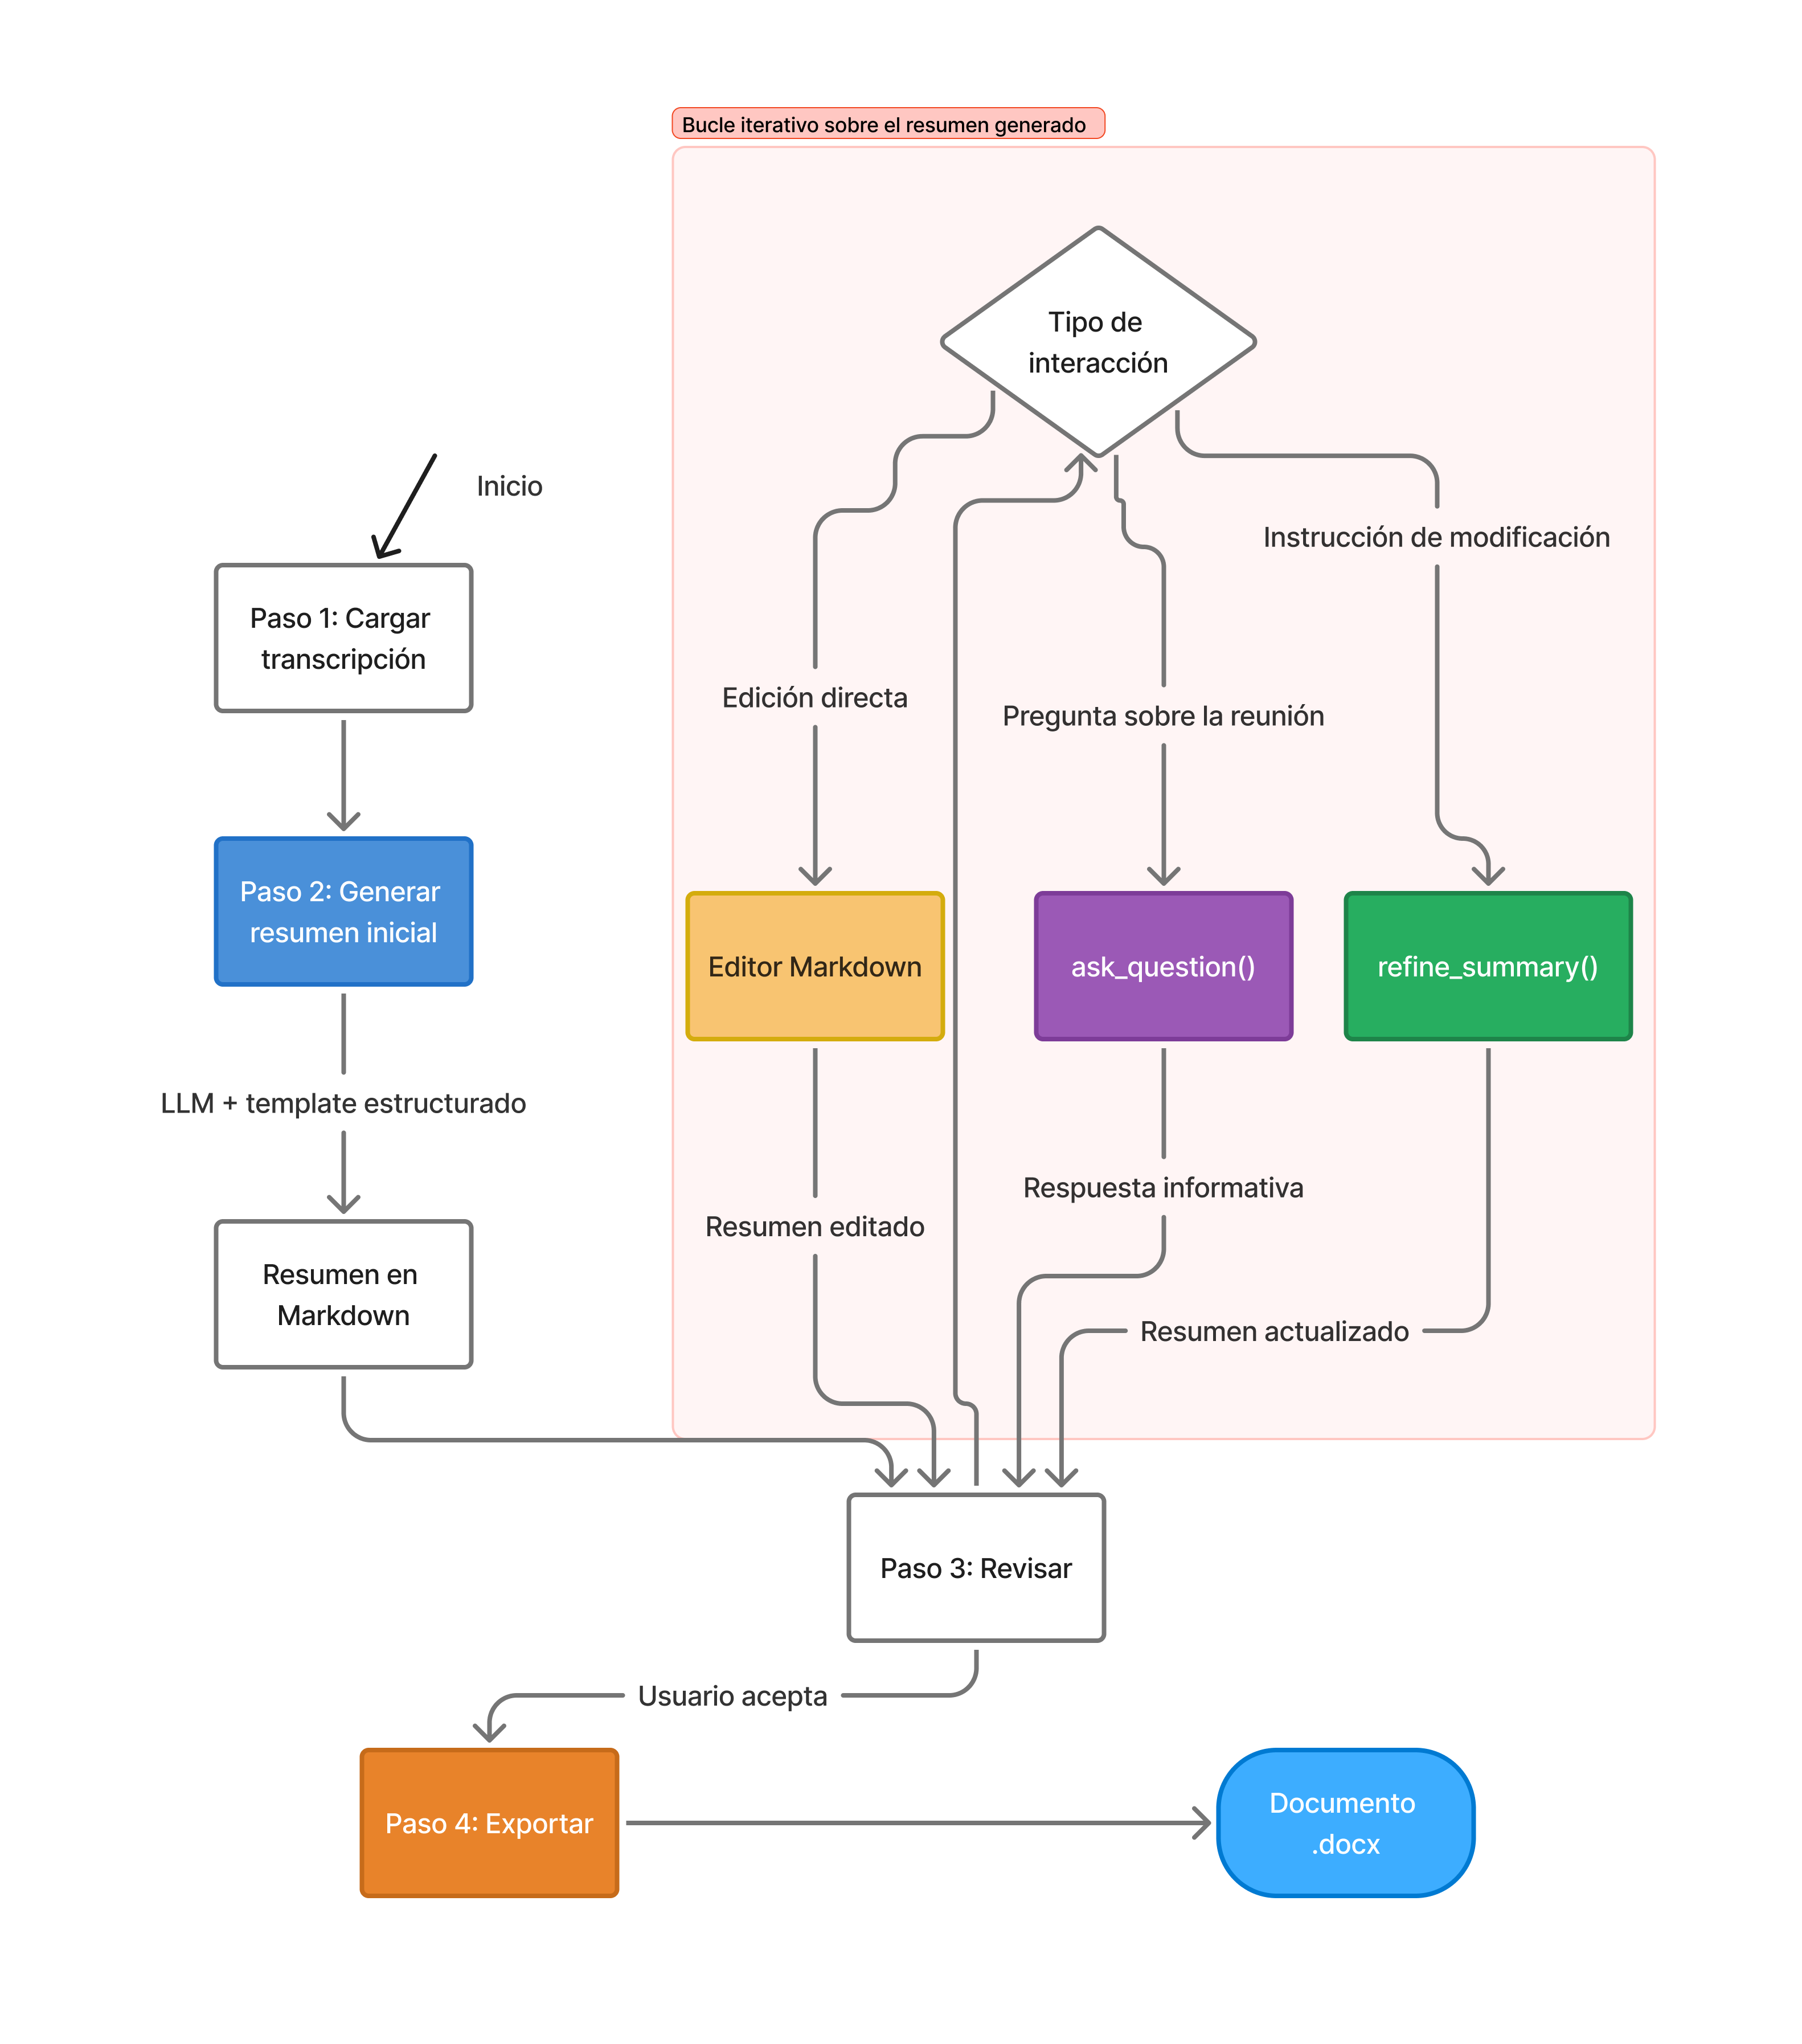
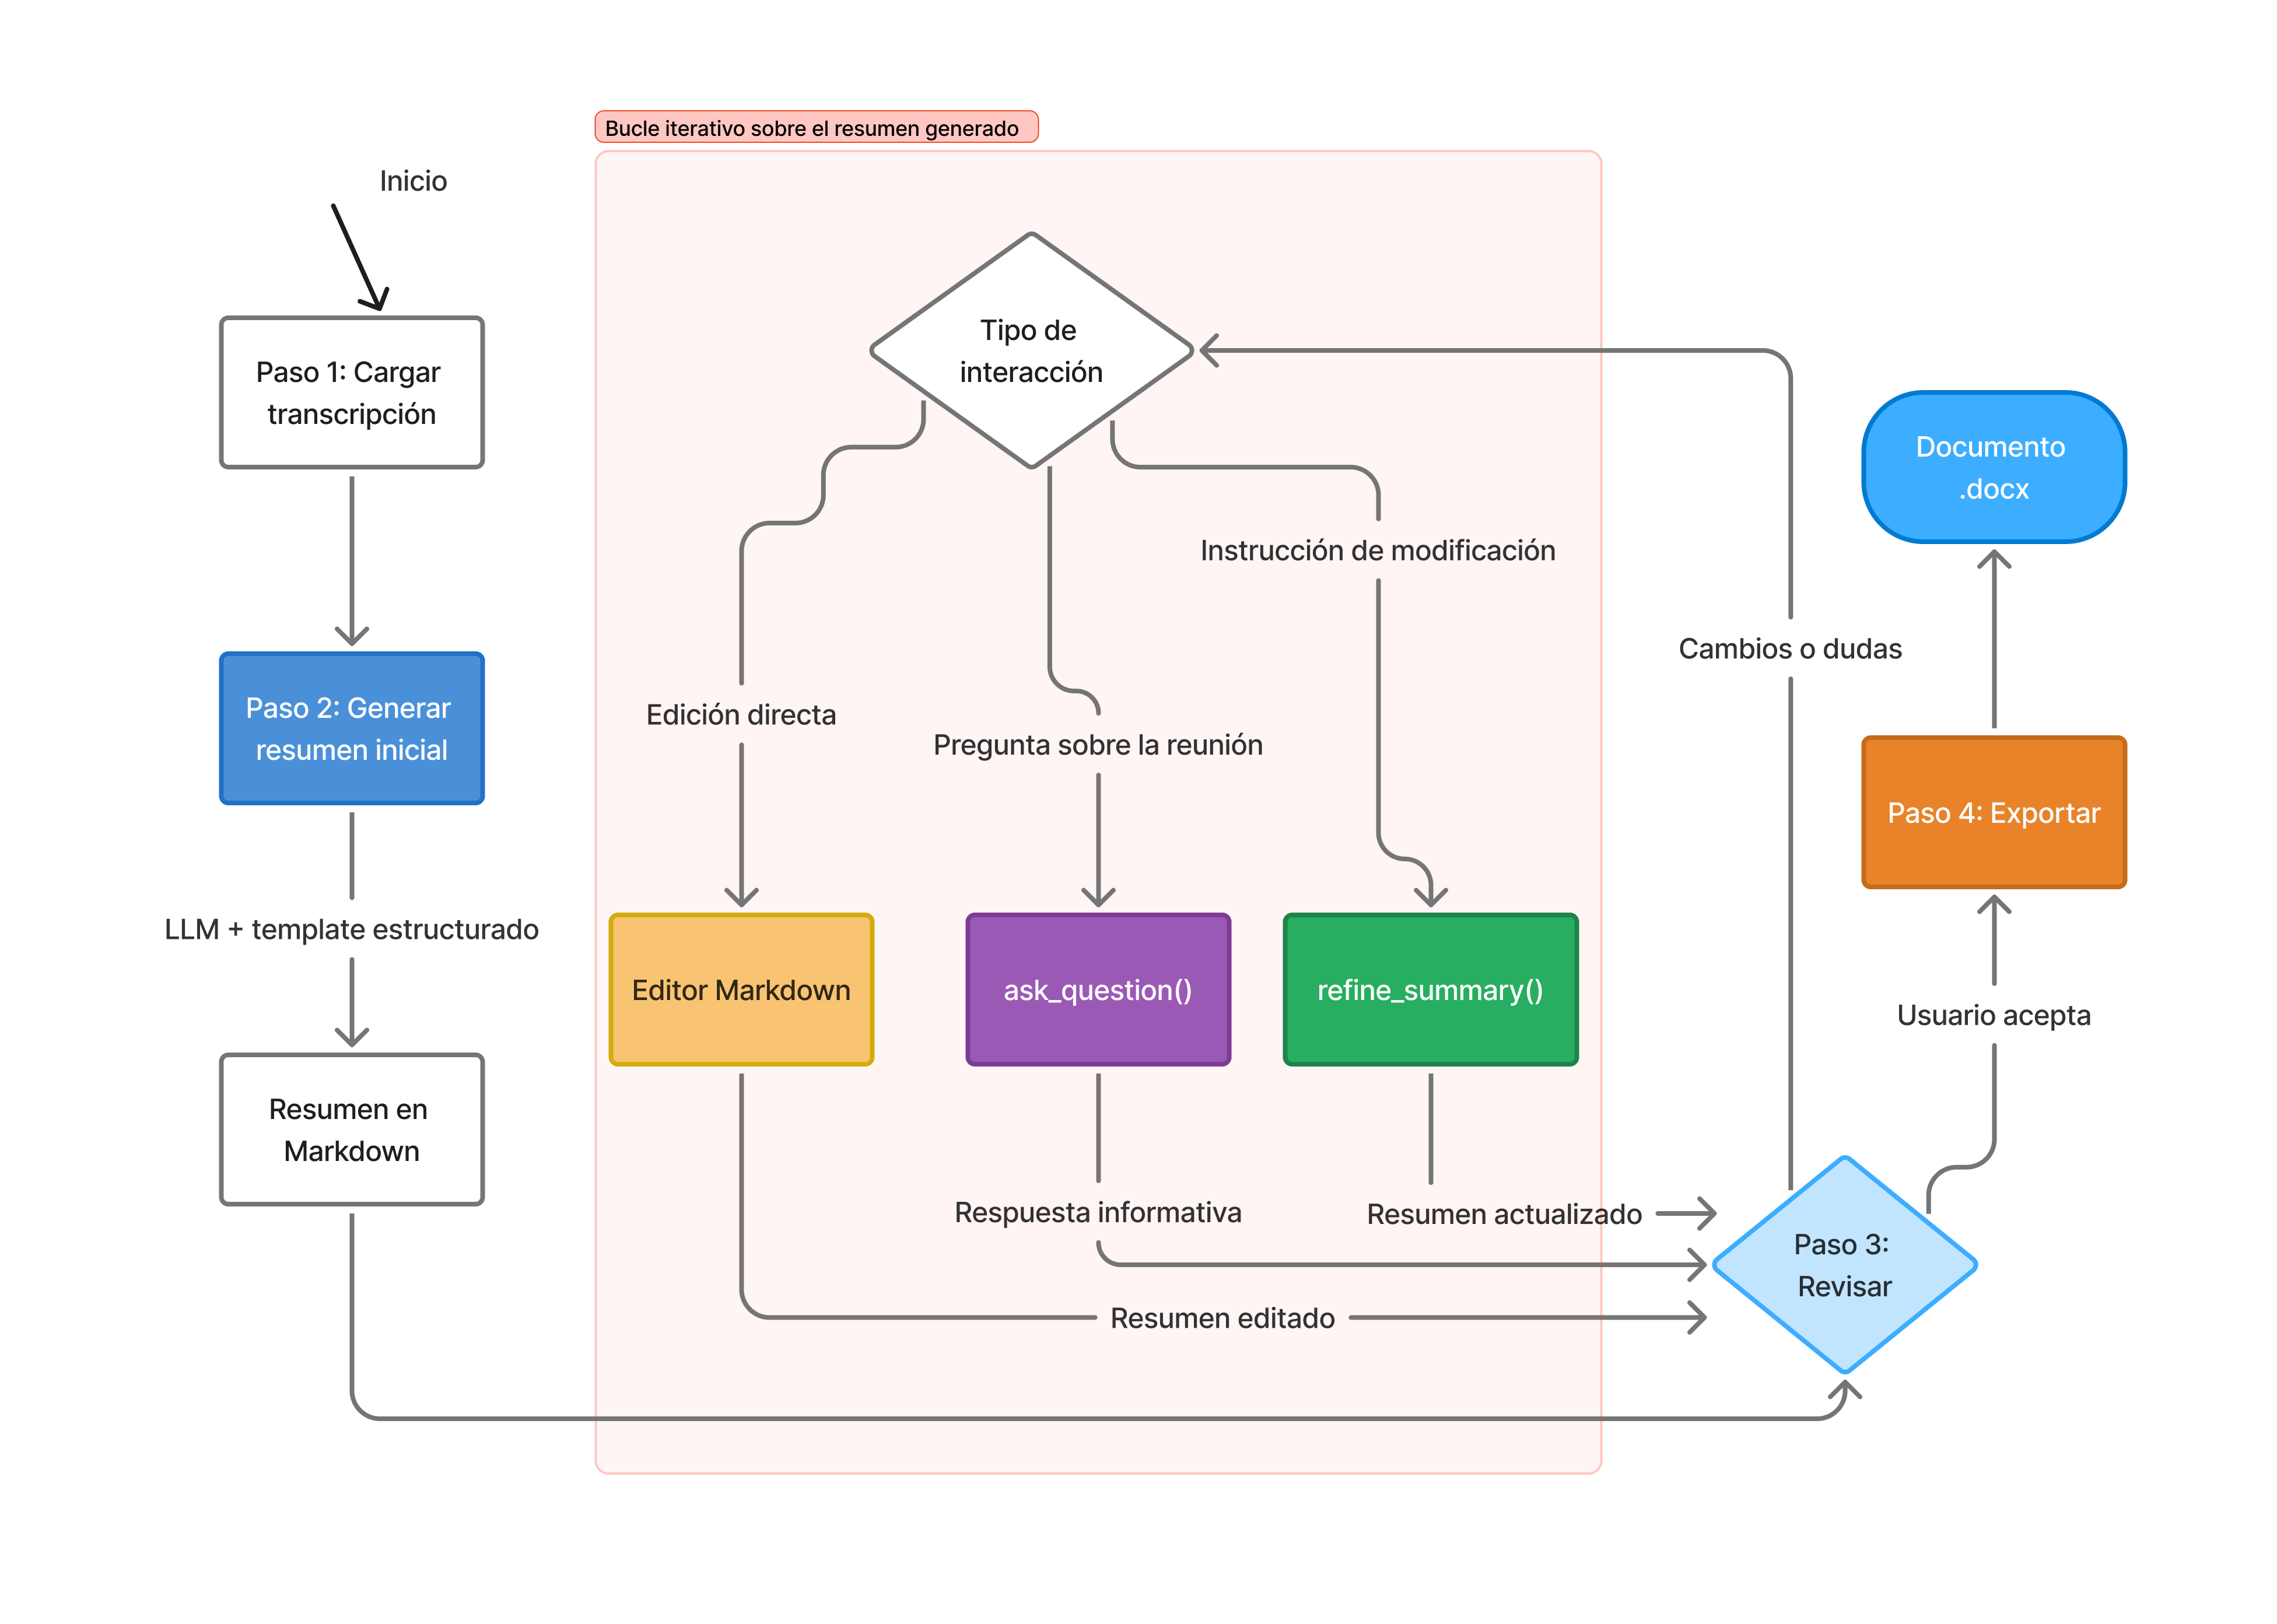
Separrados muchos diagramas en 2 para que sea más legible!! Cambios varios en algunas cosas, refinamiento.

diff --git a/Presentacion_TFG/presentacion.tex b/Presentacion_TFG/presentacion.tex
@@ -27,6 +27,7 @@
 \usepackage{graphicx}
 \usepackage{amsmath}
 \usepackage{colortbl}
+\usepackage{comment}
 
 \usetikzlibrary{arrows.meta, shapes.geometric, positioning}
 
@@ -42,7 +43,7 @@
 % --- 2. CONFIGURATION FOR FIRST & LAST PAGE ---
 \newcommand{\FirstLastPageLayout}{
     \begin{tikzpicture}[remember picture,overlay]
-        \node[anchor=north, xshift=0cm, yshift=-0.3cm, inner sep=0pt] at (current page.north) {
+        \node[anchor=north, xshift=0cm, yshift=-1.2cm, inner sep=0pt] at (current page.north) {
             \begin{minipage}{0.10\paperwidth}
                 \centering
                 \includegraphics[width=\textwidth]{imagenes/Logo_UPC.svg.png}
@@ -57,13 +58,14 @@
         %    \textcolor{MyBlue}{\footnotesize Facultat d'Informàtica de Barcelona -- UPC}
         %};
     \end{tikzpicture}
+    \vspace{1.5cm}
 }
 
 % --- Info ---
 
 \title[Trabajo de Fin de Grado]{Sistema Inteligente de Asistencia al Desarrollo Estructurado y Seguimiento de Proyectos de software}
 \author{Adrià Cebrián Ruiz}
-\institute[FIB -- UPC]{Facultat d'Informàtica de Barcelona -- UPC}
+\institute[FIB -- UPC]{\scriptsize \textbf{Ponente:} David Garcia Soriano \\ Facultat d'Informàtica de Barcelona -- UPC}
 \date{30/06/2026}
 
 \begin{document}
@@ -312,41 +314,44 @@
 % ============================================================
 % SLIDE 8: LA DIFERENCIA: COLBPOWERS
 % ============================================================
-\begin{frame}{La diferencia: \textit{colbPowers}}
-    \vspace{-0.7cm}
-    \textit{superpowers} ofrece la arquitectura base (orquestador + subagentes vía skills). \textbf{colbPowers} añade:
-
-    \begin{columns}[T]
-        \begin{column}{0.48\textwidth}
-            \begin{block}{Contexto persistente entre sesiones}
-                \footnotesize
-                \texttt{constitution.md}: visión del proyecto, stack tecnológico y estándares no negociables.\\[0.2cm]
-                \texttt{features.md}: roadmap con criterios de aceptación por funcionalidad.
-            \end{block}
-            \vspace{0.2cm}
-            \begin{block}{Configuración interactiva}
-                \footnotesize
-                Skills \textit{defining-constitution} y \textit{defining-features}: el agente construye estos documentos junto al desarrollador en la primera sesión.
-            \end{block}
-        \end{column}
-        \begin{column}{0.48\textwidth}
-            \begin{block}{Flujo SDD}
-                \footnotesize
-                Skill \textit{using-colbPowers} (adaptación de \textit{using-superpowers}) inyectada vía hook \texttt{SessionStart}: las reglas SDD activas \textbf{desde el primer mensaje}.
-            \end{block}
-            \vspace{0.2cm}
-            \begin{block}{Subagentes aislados}
-                \footnotesize
-                Mecanismo de \textit{superpowers}; arrancan sin acceso al historial de conversación, solo ven el contexto que el orquestador les proporciona explícitamente..
-            \end{block}
-        \end{column}
-    \end{columns}
-    \vspace{0.1cm}
-\end{frame}
+\begin{comment}
+    \begin{frame}{La diferencia: \textit{colbPowers}}
+        \vspace{-0.7cm}
+        \textit{superpowers} ofrece la arquitectura base (orquestador + subagentes vía skills). \textbf{colbPowers} añade:
+    
+        \begin{columns}[T]
+            \begin{column}{0.48\textwidth}
+                \begin{block}{Contexto persistente entre sesiones}
+                    \footnotesize
+                    \texttt{constitution.md}: visión del proyecto, stack tecnológico y estándares no negociables.\\[0.2cm]
+                    \texttt{features.md}: roadmap con criterios de aceptación por funcionalidad.
+                \end{block}
+                \vspace{0.2cm}
+                \begin{block}{Configuración interactiva}
+                    \footnotesize
+                    Skills \textit{defining-constitution} y \textit{defining-features}: el agente construye estos documentos junto al desarrollador en la primera sesión.
+                \end{block}
+            \end{column}
+            \begin{column}{0.48\textwidth}
+                \begin{block}{Flujo SDD}
+                    \footnotesize
+                    Skill \textit{using-colbPowers} (adaptación de \textit{using-superpowers}) inyectada vía hook \texttt{SessionStart}: las reglas SDD activas \textbf{desde el primer mensaje}.
+                \end{block}
+                \vspace{0.2cm}
+                \begin{block}{Subagentes aislados}
+                    \footnotesize
+                    Mecanismo de \textit{superpowers}; arrancan sin acceso al historial de conversación, solo ven el contexto que el orquestador les proporciona explícitamente..
+                \end{block}
+            \end{column}
+        \end{columns}
+        \vspace{0.1cm}
+    \end{frame}
+\end{comment}
 
 % ============================================================
 % SLIDE 9: SOSTENIBILIDAD
 % ============================================================
+\begin{comment}
 \begin{frame}{Sostenibilidad}
     \begin{columns}[T]
         \begin{column}{0.32\textwidth}
@@ -372,7 +377,7 @@
         \end{column}
     \end{columns}
 \end{frame}
-
+\end{comment}
 % ============================================================
 % SLIDE 10: SECTION DIVIDER – IMPLEMENTACIÓN (no cuenta en el total)
 % ============================================================
@@ -435,13 +440,24 @@
 % ============================================================
 % SLIDE 13: TOMA DE REQUERIMIENTOS – IMPLEMENTACIÓN PROPIA
 % ============================================================
-\begin{frame}{Toma de requerimientos -- Implementación propia}
-    \vspace{-1cm}
+\begin{frame}{Toma de requerimientos -- Implementación propia parte 1}
+    \vfill
     \begin{figure}
         \centering
-        \includegraphics[width=0.75\linewidth, keepaspectratio]{imagenes/Requirements Intake System.png}
-        \caption{Flujo del sistema de toma de requerimientos}
+        \includegraphics[width=\linewidth, keepaspectratio]{imagenes/RequirementsIntakeSystem_Parte1.png}
+        \caption{Parte 1 de flujo del sistema de toma de requerimientos}
     \end{figure}
+    \vfill
+\end{frame}
+
+\begin{frame}{Toma de requerimientos -- Implementación propia parte 2}
+    \vfill
+    \begin{figure}
+        \centering
+        \includegraphics[width=\linewidth, keepaspectratio]{imagenes/RequirementsIntakeSystem_Parte2.png}
+        \caption{Parte 2 de flujo del sistema de toma de requerimientos}
+    \end{figure}
+    \vfill
 \end{frame}
 
 % ============================================================
@@ -459,10 +475,10 @@
 % SLIDE 15: SEGUIMIENTO DE CLIENTE – IMPLEMENTACIÓN PROPIA
 % ============================================================
 \begin{frame}{Seguimiento de cliente -- Implementación propia}
-    \vspace{-0.5cm}
+    \vspace{-1cm}
     \begin{figure}
         \centering
-        \includegraphics[width=0.50\linewidth, keepaspectratio]{imagenes/SeguimientDelCliente.png}
+        \includegraphics[width=0.85\linewidth, keepaspectratio]{imagenes/SeguimientDelCliente.png}
         \caption{Flujo del sistema de seguimiento de cliente}
     \end{figure}
 \end{frame}
@@ -499,13 +515,26 @@
 % ============================================================
 % SLIDE 17: SPEC-DRIVEN DEVELOPMENT – PART 2
 % ============================================================
-\begin{frame}{Spec-Driven Development -- Flujo de \textit{colbPowers}}
+\begin{frame}{Spec-Driven Development -- Flujo de \textit{colbPowers} parte 1}
     \vspace{-0.9cm}
+    \vfill
     \begin{figure}
         \centering
-        \includegraphics[width=0.78\linewidth, keepaspectratio]{imagenes/JustColbPowers.png}
-        \caption{Flujo completo de colbPowers: desde la verificación del estado hasta la ejecución con subagentes}
+        \includegraphics[width=0.9\linewidth, keepaspectratio]{imagenes/JustColbPowers_Part1.png}
+        \caption{Parte 1 flujo completo de colbPowers}
     \end{figure}
+    \vfill
+\end{frame}
+
+\begin{frame}{Spec-Driven Development -- Flujo de \textit{colbPowers} parte 2}
+    \vspace{-0.9cm}
+    \vfill
+    \begin{figure}
+        \centering
+        \includegraphics[width=0.65\linewidth, keepaspectratio]{imagenes/JustColbPowers_Part2.png}
+        \caption{Parte 2 flujo de colbPowers}
+    \end{figure}
+    \vfill
 \end{frame}
 
 % ============================================================
@@ -624,9 +653,10 @@
 % SLIDE 22: VISTA GENERAL
 % ============================================================
 \begin{frame}{Vista general}
+    \vspace{-0.4cm}
     \begin{figure}
         \centering
-        \includegraphics[width=0.90\linewidth, keepaspectratio]{graficos/01_calidad_codigo.png}
+        \includegraphics[width=0.65\linewidth, keepaspectratio]{graficos/comparisons/01_calidad_codigo.png}
         \caption{Métricas de calidad del código (con plugin vs.\ sin plugin)}
     \end{figure}
 \end{frame}
@@ -803,6 +833,36 @@
                 \vspace{0.1cm}
                 \item Integración con herramientas de gestión de proyectos (Linear, Jira): tareas generadas automáticamente desde el acta de reunión.
             \end{itemize}
+        \end{column}
+    \end{columns}
+\end{frame}
+
+% ============================================================
+% SLIDE 9: SOSTENIBILIDAD
+% ============================================================
+
+\begin{frame}{Sostenibilidad}
+    \begin{columns}[T]
+        \begin{column}{0.32\textwidth}
+            \centering\textbf{Económica}
+            \rule{\linewidth}{0.4pt}\\[0.2cm]
+            \footnotesize
+            Mayor inversión inicial, a cambio de un código mejor documentado. Reduce el tiempo que otros desarrolladores deben invertir en entender el código.\\[0.3cm]
+            La metodología fomenta la creación de tests de prueba, ahorrando costes de mantenimiento.
+        \end{column}
+        \begin{column}{0.32\textwidth}
+            \centering\textbf{Ambiental}
+            \rule{\linewidth}{0.4pt}\\[0.2cm]
+            \footnotesize
+            Consumo inicial elevado (sobrecoste estructural \textbf{$\times$2,2--$\times$4,5} respecto al baseline), pero genera documentación que reduce el uso posterior de IA.\\[0.3cm]
+            Los tests de prueba reducen la cantidad de \textit{prompts} para solucionar errores inesperados.
+        \end{column}
+        \begin{column}{0.32\textwidth}
+            \centering\textbf{Social}
+            \rule{\linewidth}{0.4pt}\\[0.2cm]
+            \footnotesize
+            La metodología Human-in-the-loop conlleva mayor involucra\-miento del desarrollador como profesional.\\[0.3cm]
+            La generación de documentación facilita la incorporación de talento nuevo en los proyectos.
         \end{column}
     \end{columns}
 \end{frame}